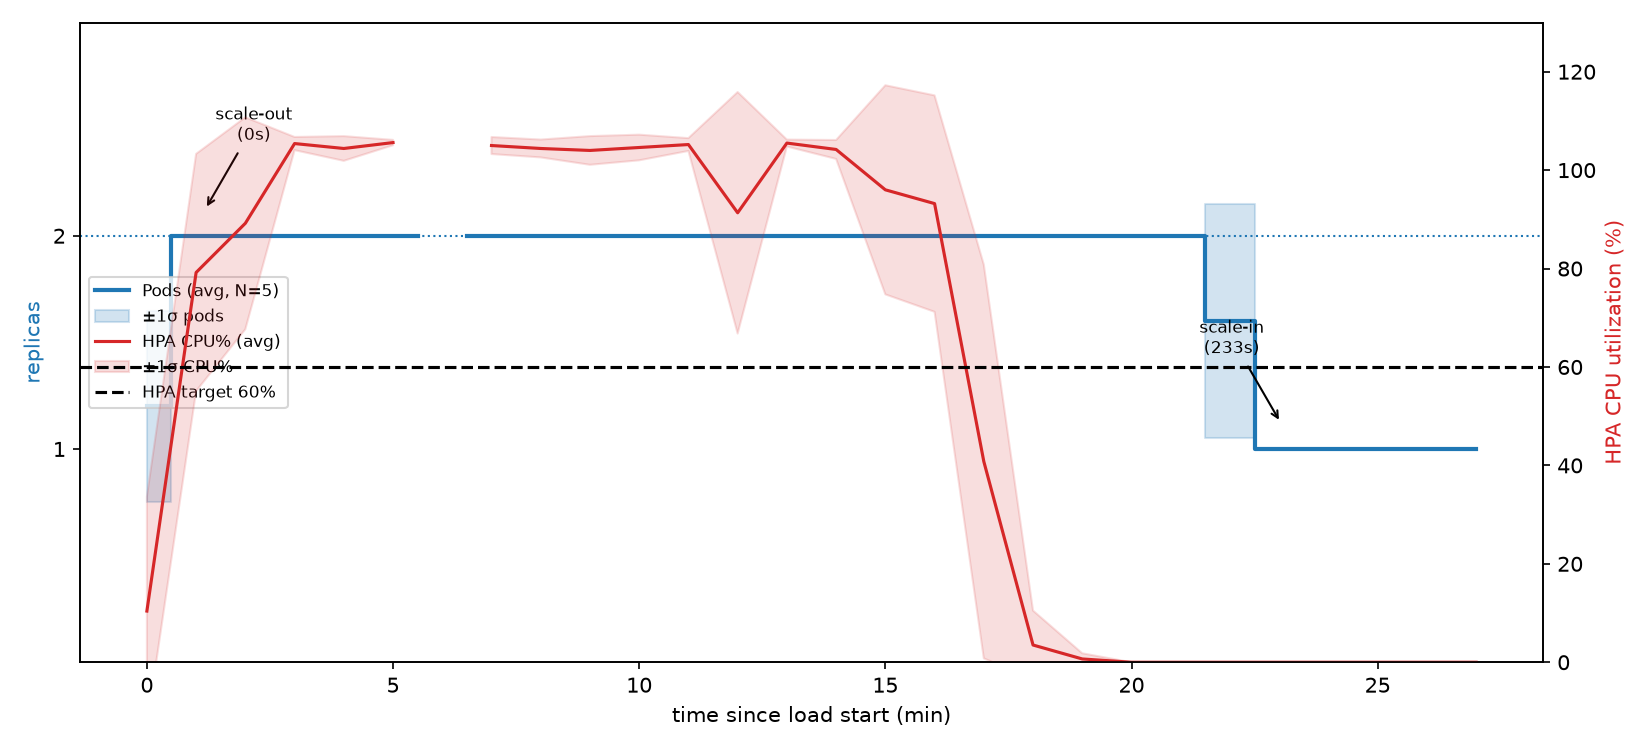
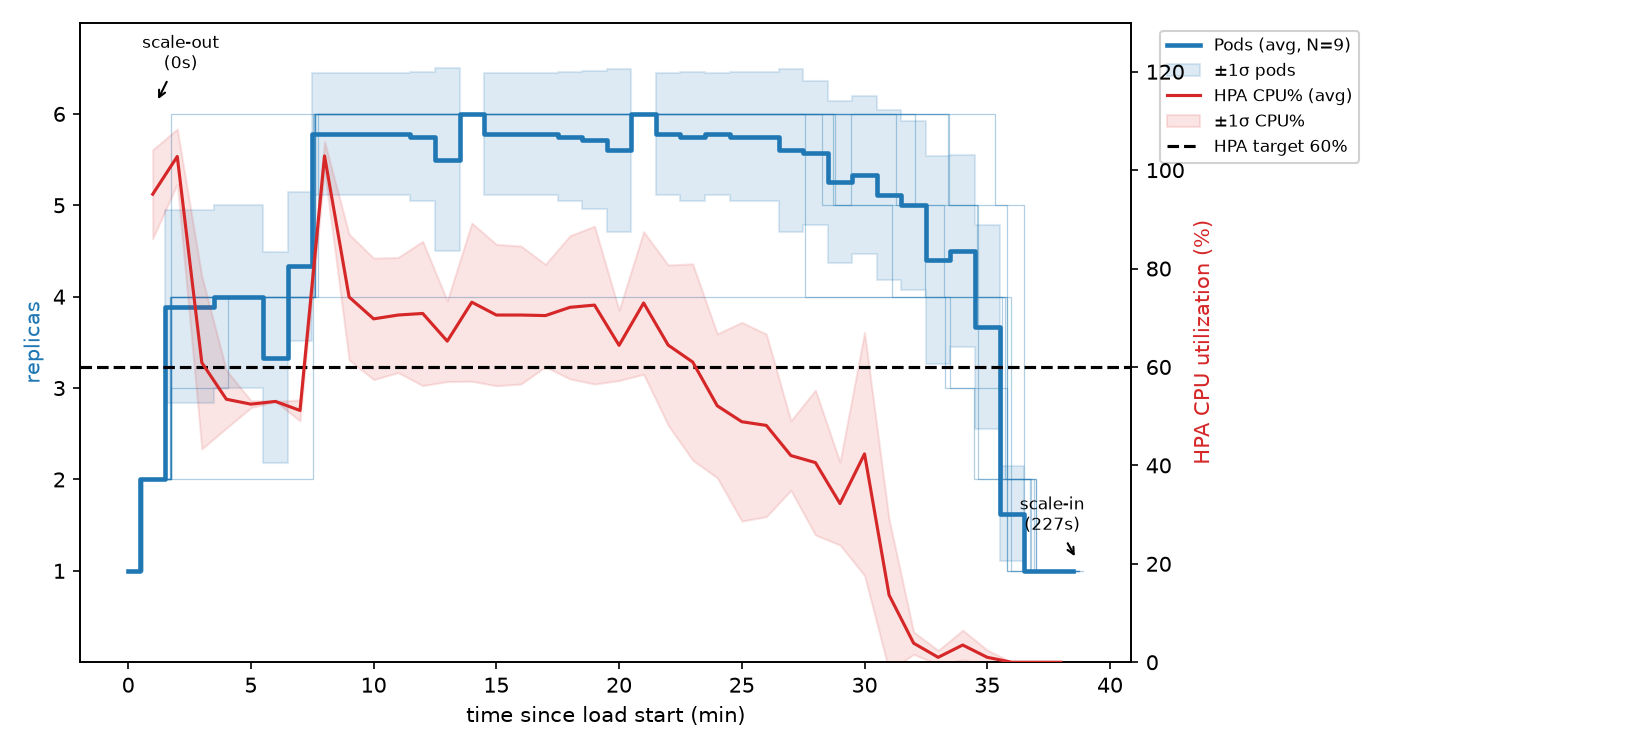
Test A N=9 complete + plots: legend outside, per-run sawtooth traces (vision-reviewed clean); pyproject adds pandas/matplotlib dev deps

diff --git a/infra/plots.py b/infra/plots.py
@@ -331,11 +331,25 @@ def plot1(testA_avg, lat):
     max_pods = int(np.nanmax(testA_avg["replicas_avg"]))
     fig, ax1 = plt.subplots(figsize=(11, 5))
     t = testA_avg["t_sec"].to_numpy() / 60.0
-    ax1.step(t, testA_avg["replicas_avg"], where="mid", color="tab:blue", linewidth=2,
-             label=f"Pods (avg, N={n})")
+
+    # per-run replica traces (thin, translucent) show the discrete sawtooth
+    # steps that the N-run average smears; drawn first, behind the average
+    for d in run_dirs("testA"):
+        meta = parse_notes(d)
+        t0 = first_int(meta.get("run_start"))
+        if t0 is None:
+            continue
+        reps = load_replicas(d)
+        if reps.empty:
+            continue
+        tr = rel_time(reps, t0) / 60.0
+        ax1.step(tr, reps["replicas"], where="mid", color="tab:blue", lw=0.6,
+                 alpha=0.35, zorder=1)
+    ax1.step(t, testA_avg["replicas_avg"], where="mid", color="tab:blue", linewidth=2.2,
+             label=f"Pods (avg, N={n})", zorder=3)
     ax1.fill_between(t, testA_avg["replicas_avg"] - testA_avg["replicas_std"],
                      testA_avg["replicas_avg"] + testA_avg["replicas_std"],
-                     step="mid", alpha=0.2, color="tab:blue", label="±1σ pods")
+                     step="mid", alpha=0.15, color="tab:blue", label="±1σ pods", zorder=2)
     ax1.set_xlabel("time since load start (min)")
     ax1.set_ylabel("replicas", color="tab:blue")
     ax1.set_ylim(0, max_pods + 1)
@@ -343,17 +357,18 @@ def plot1(testA_avg, lat):
 
     ax2 = ax1.twinx()
     ax2.plot(t, testA_avg["cpu_pct_avg"], color="tab:red", linewidth=1.5,
-             label="HPA CPU% (avg)")
+             label="HPA CPU% (avg)", zorder=3)
     ax2.fill_between(t, testA_avg["cpu_pct_avg"] - testA_avg["cpu_pct_std"],
                      testA_avg["cpu_pct_avg"] + testA_avg["cpu_pct_std"],
-                     alpha=0.15, color="tab:red", label="±1σ CPU%")
+                     alpha=0.12, color="tab:red", label="±1σ CPU%", zorder=2)
     ax2.axhline(HPA_TARGET, color="black", ls="--", lw=1.5, label=f"HPA target {HPA_TARGET:.0f}%")
     ax2.set_ylabel("HPA CPU utilization (%)", color="tab:red")
     ax2.set_ylim(0, 130)
 
     l1, lb1 = ax1.get_legend_handles_labels()
     l2, lb2 = ax2.get_legend_handles_labels()
-    ax1.legend(l1 + l2, lb1 + lb2, loc="center left", fontsize=8)
+    ax1.legend(l1 + l2, lb1 + lb2, loc="upper left", bbox_to_anchor=(1.02, 1.0),
+               fontsize=8, framealpha=0.9)
 
     ok = lat.dropna(subset=["scale_out_latency_s", "scale_in_latency_s"])
     if not ok.empty:
@@ -363,7 +378,7 @@ def plot1(testA_avg, lat):
                      xytext=(t_out + 1, max_pods + 0.5), fontsize=8, ha="center", arrowprops=dict(arrowstyle="->"))
         ax1.annotate(f"scale-in\n({ok['scale_in_latency_s'].mean():.0f}s)", (t_in, 1.12),
                      xytext=(t_in - 1, 1.45), fontsize=8, ha="center", arrowprops=dict(arrowstyle="->"))
-    fig.tight_layout()
+    fig.tight_layout(rect=[0, 0, 0.84, 1])
     fig.savefig(PLOTS / "plot1_elasticity.png", dpi=150)
     plt.close(fig)
 
